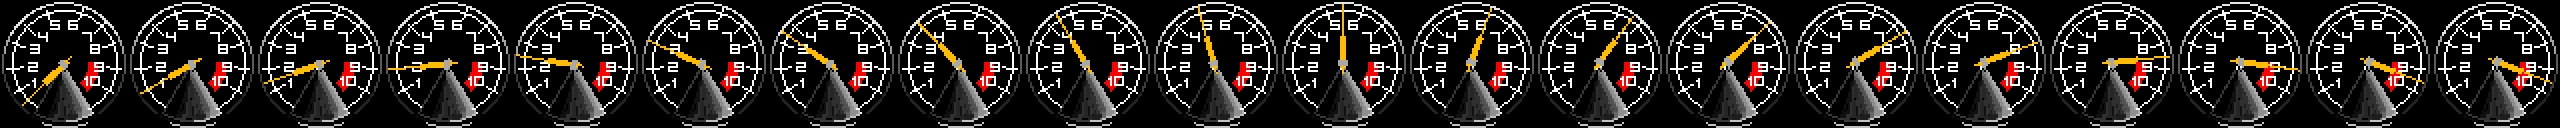
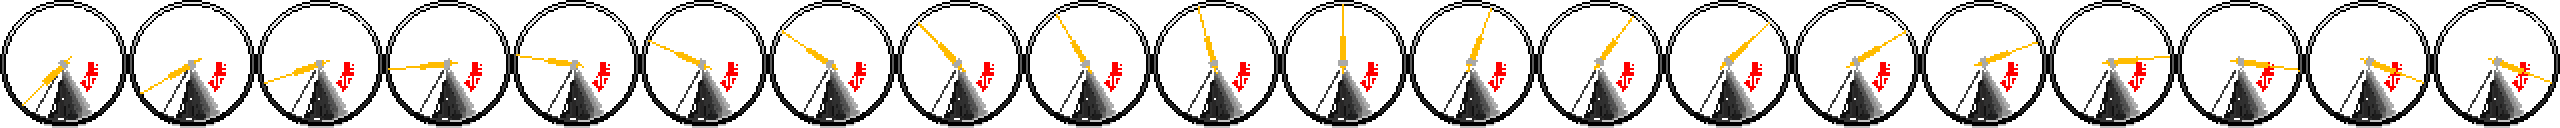
dashboard

diff --git a/src/index.js b/src/index.js
@@ -9,6 +9,7 @@ import cashImg from './assets/Cash.png';
 import Player from "./Player.js"
 import Cop from './Cop.js';
 import "./index.css";
+import dashImg from "./assets/dash.png";
 
 var player;
 var Dtrail;
@@ -21,6 +22,7 @@ var scoreText;
 var score;
 var debugText;
 var debugText2;
+var dash;
 
 // Represents Game Scene
 class MyGame extends Phaser.Scene {
@@ -35,9 +37,11 @@ class MyGame extends Phaser.Scene {
     this.load.image('speed', SpeedImg);
     this.load.spritesheet('SpeedD', SpeedImg, {frameWidth: 128, frameHeight: 128});
     this.load.image("copBW", copBWImg);
-    this.load.image("cash", cashImg);
+      this.load.image("cash", cashImg);
+      this.load.image("dash", dashImg);
     this.load.image("tiles", tileImg);
-    this.load.tilemapTiledJSON('map', mapJSON);
+      this.load.tilemapTiledJSON('map', mapJSON);
+
   }
 
   create() {
@@ -69,9 +73,10 @@ class MyGame extends Phaser.Scene {
     copBW.initialize();
     
     // create user interface
+    dash = this.add.sprite(400, 340, 'dash').setScrollFactor(0);
     scoreText = this.add.text(10,0,'', {font: '16px Courier', fill: '#ffffff'}).setScrollFactor(0);
     score = 0;
-    var graphics = new Phaser.Geom.Rectangle(0, 30, 150, 25);
+      var graphics = new Phaser.Geom.Rectangle(270, 510, 150, 20);
     var fuel = this.add.graphics({ fillStyle: { color: 0x00ff00 } }).setScrollFactor(0);
     fuel.fillRectShape(graphics);
 
@@ -81,7 +86,7 @@ class MyGame extends Phaser.Scene {
       frames: this.anims.generateFrameNumbers('SpeedD', {frames: [2,4,6,8,10,12,14,16,18]}),
       frameRate: 20
     });
-    speedAnim = this.add.sprite(736, 576).setScrollFactor(0);
+    speedAnim = this.add.sprite(520, 566).setScrollFactor(0);
     speedAnim.setScale(1);
     speedAnim.play('start');
 
